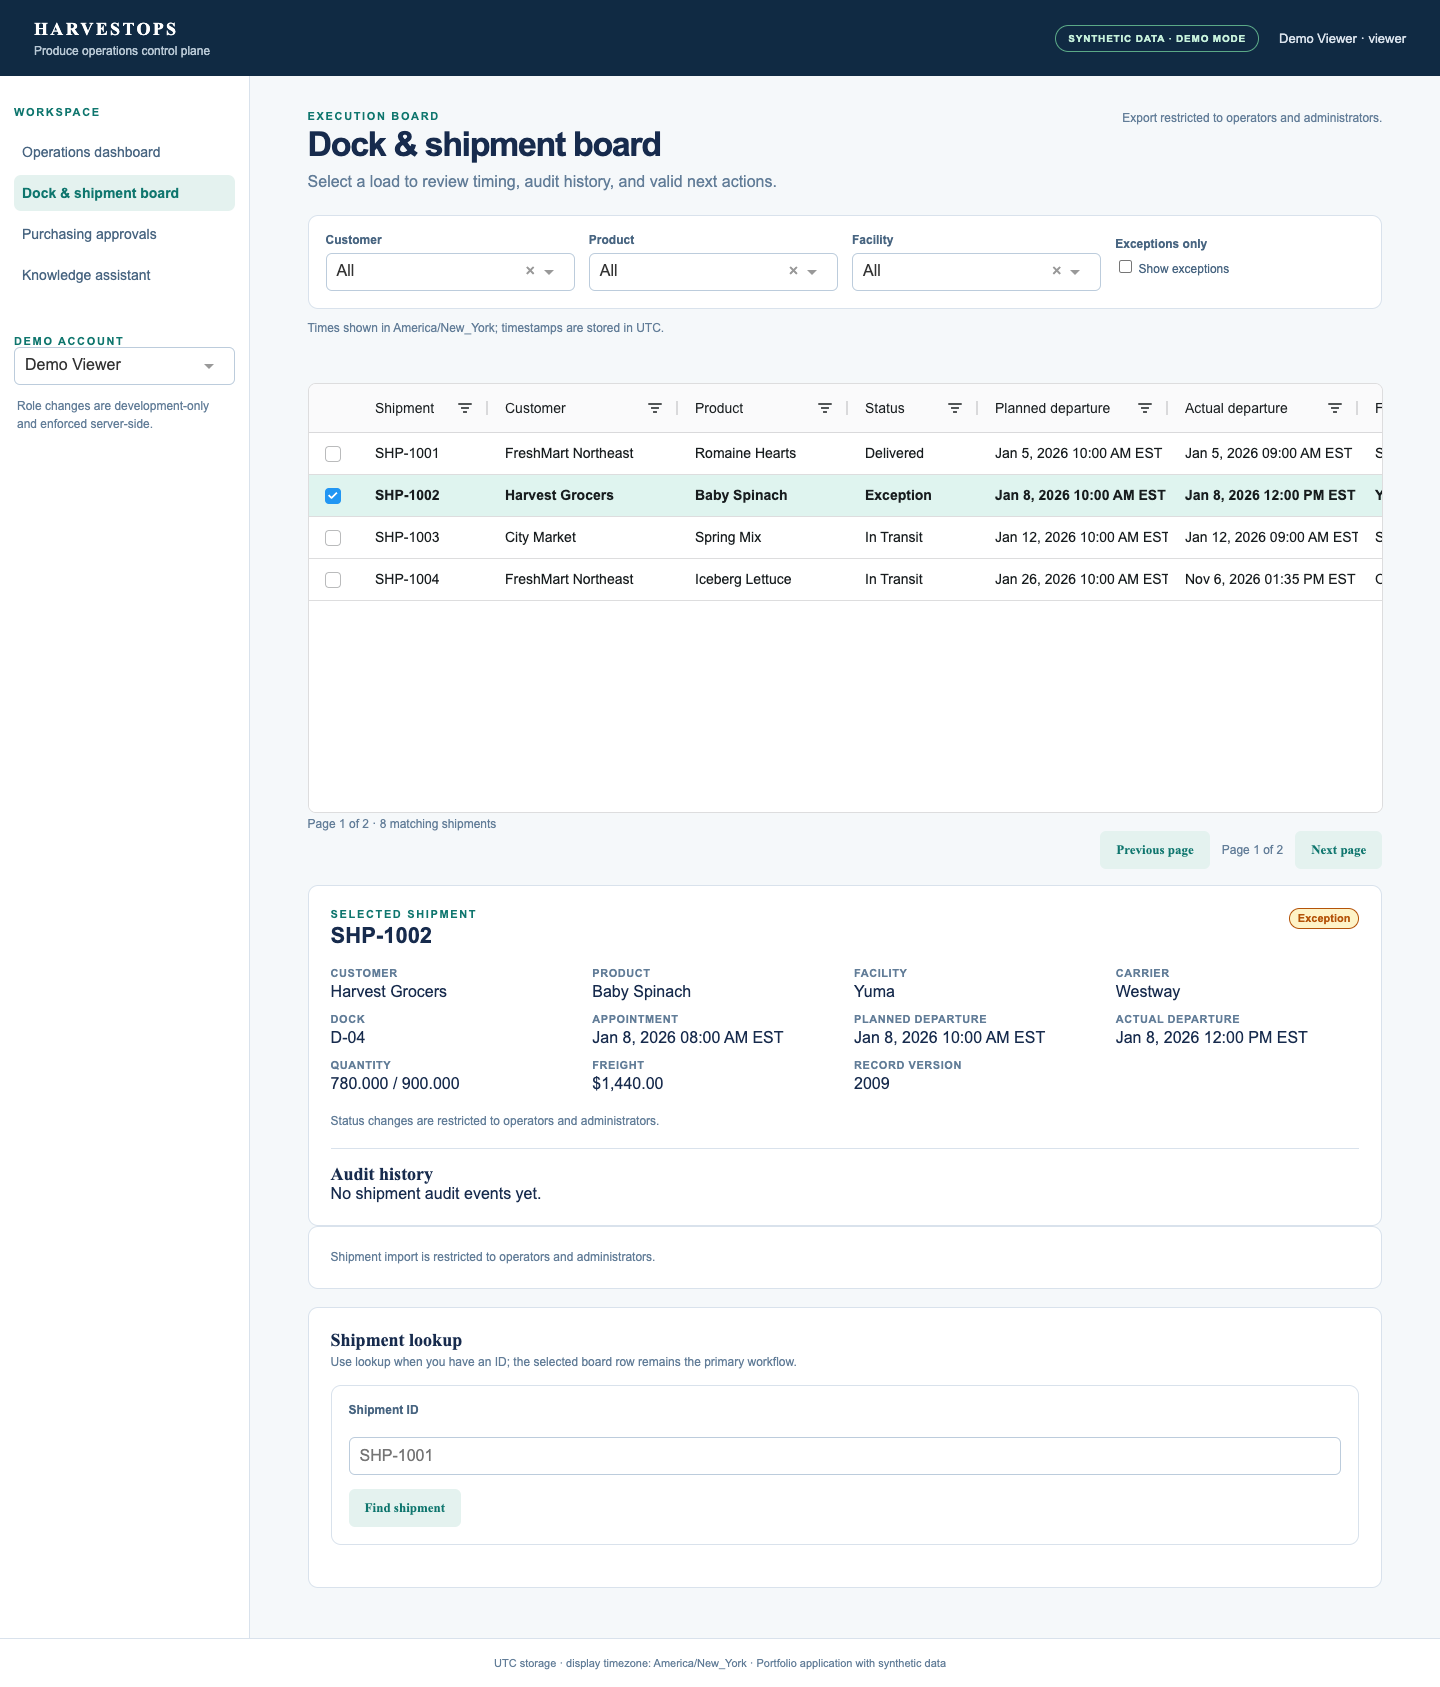
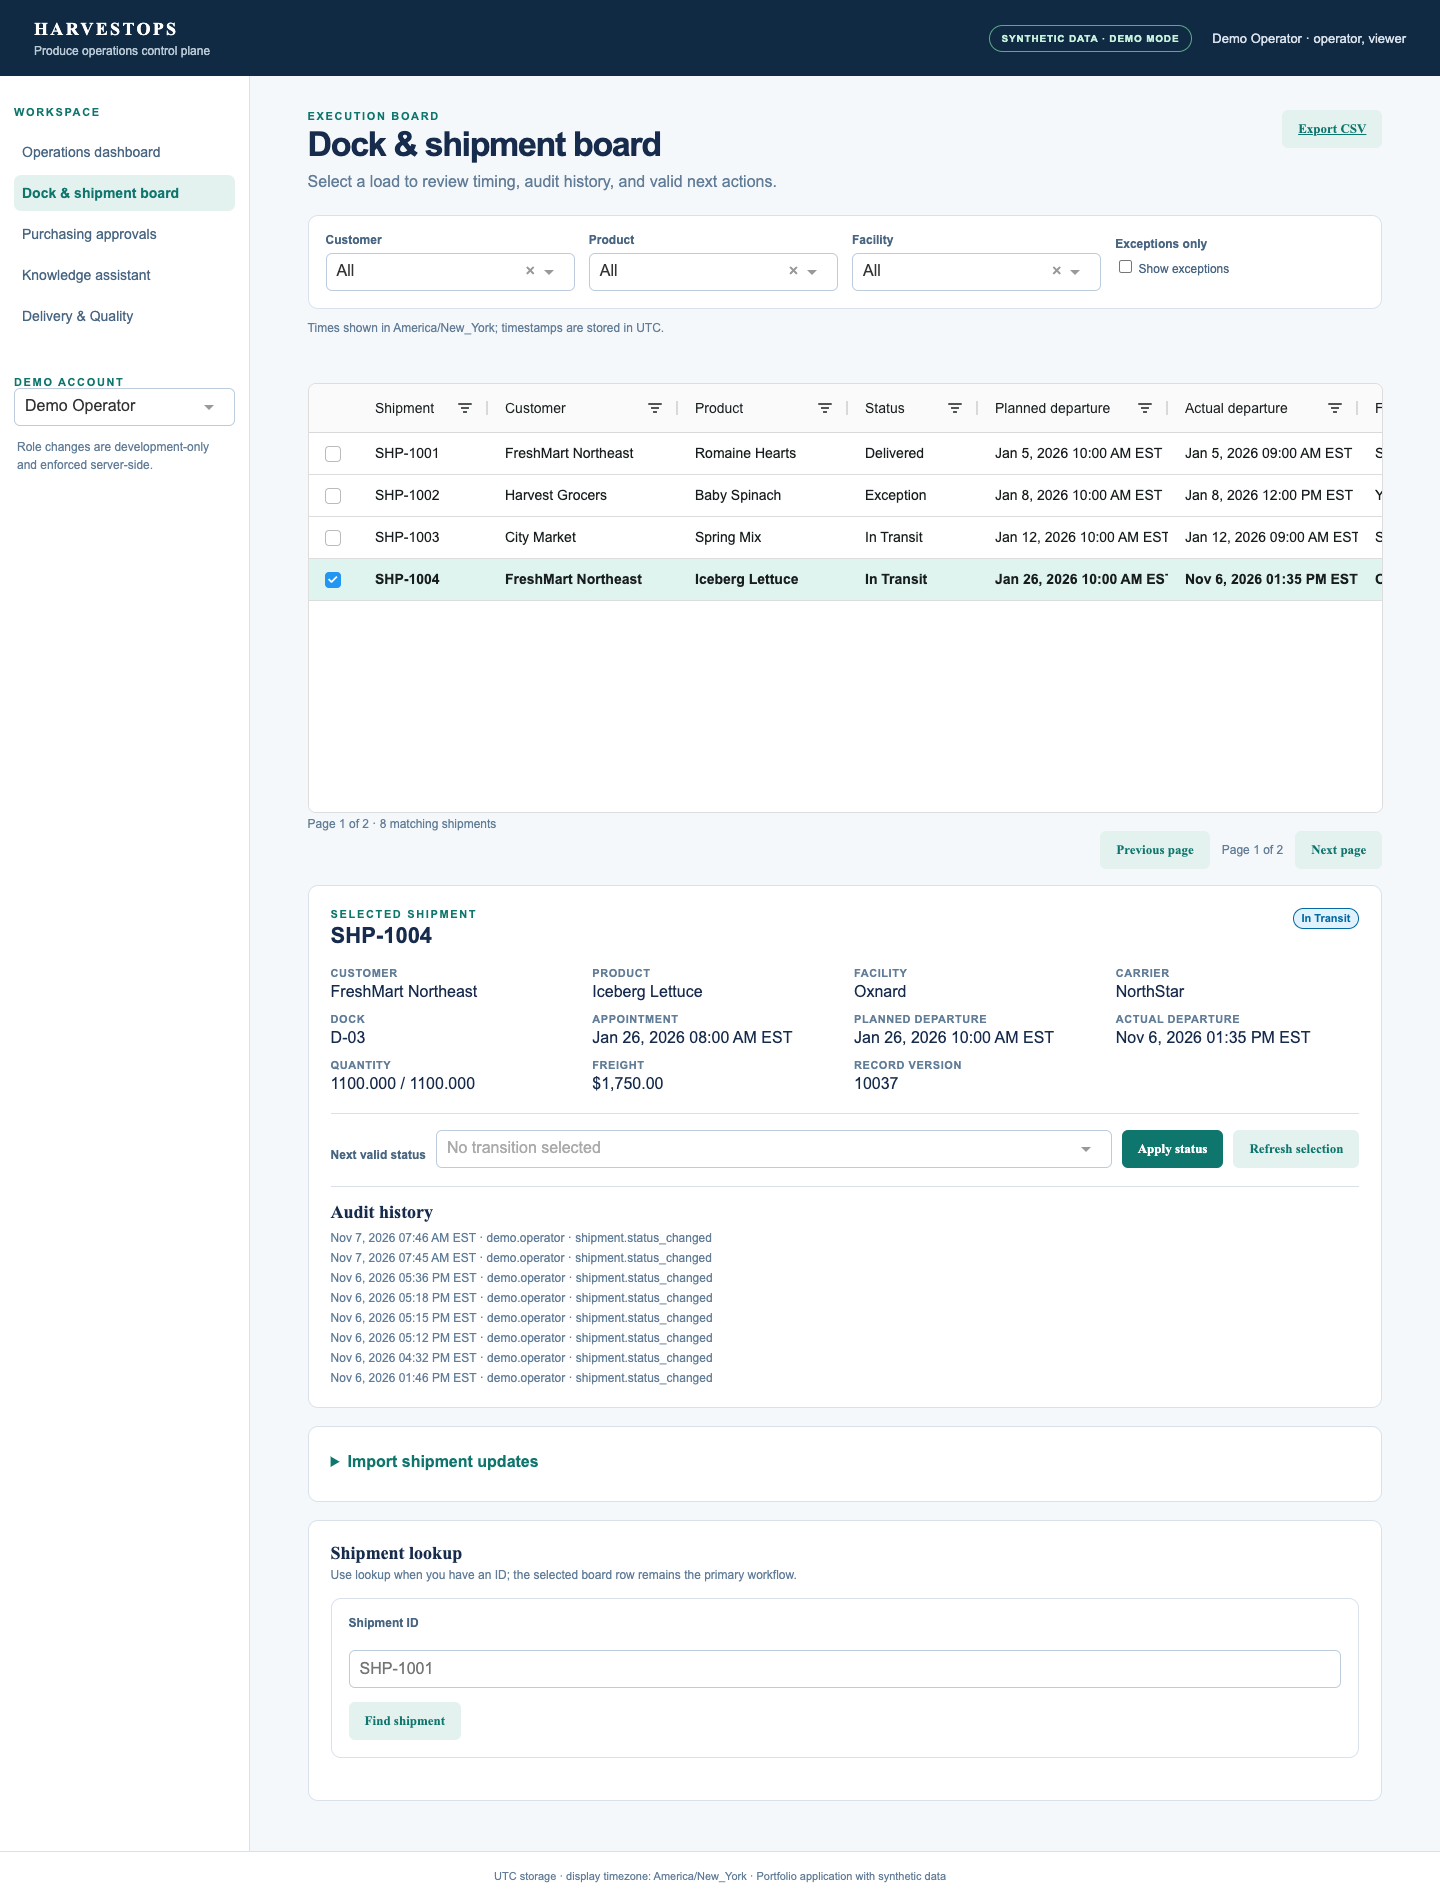
Record delivery evidence and final screenshots

diff --git a/scripts/refresh-evidence-snapshot.py b/scripts/refresh-evidence-snapshot.py
@@ -87,9 +87,9 @@ def main() -> int:
         except (OSError, json.JSONDecodeError):
             preserved = {}
 
-    ci_runs = preserved.get("ci_runs", [])
+    ci_runs = list(preserved.get("ci_runs", []))
     if args.ci_run_id and args.ci_run_url:
-        ci_runs.append(
+        ci_runs = [
             {
                 "id": args.ci_run_id,
                 "label": "GitHub Actions CI",
@@ -99,8 +99,9 @@ def main() -> int:
                 "url": args.ci_run_url,
                 "scope": "hosted-main",
                 "collected_at_utc": collected,
-            }
-        )
+            },
+            *[run for run in ci_runs if run.get("id") != args.ci_run_id],
+        ]
     snapshot = {
         "schema_version": 1,
         "snapshot_type": "sanitized-portfolio",

diff --git a/docs/validation-report.md b/docs/validation-report.md
@@ -2,7 +2,17 @@
 
 Date: 2026-11-07. Host: Apple Silicon M2, 8 GiB RAM, macOS. The verification environment is `.venv` with Python 3.13.14; the supported Python 3.12 environment remains available. Docker Desktop reports an ARM64 daemon, approximately 3.82 GiB available to its VM, and approximately 124 GiB free on `/System/Volumes/Data`.
 
-## Current authoritative status (focused review, final)
+## Current authoritative status (Delivery & Quality milestone)
+
+- The Delivery & Quality implementation is complete on commit `176a32f1c40f90278749cb91be4cb97b0c622fa3` on `main`. Hosted GitHub Actions run [42374845738](https://github.com/HarleyFischel/Harvestops/actions/runs/42374845738) passed for that exact commit: test, SQL integration, legacy build/audit, secret scan, multi-architecture container build, and image scan all completed successfully.
+- The local structured evidence refresh recorded `81` Python tests with `4` SQL-connection skips, `20` browser tests with no skips, and `4` SQL-backed integration tests against the persistent Mac SQL Server. The normal local command `./scripts/test.sh` passed `77` tests with `4` skips and `2` MSAL warnings; Ruff lint/format and `git diff --check` passed.
+- The page is available at `/?page=delivery`. It presents runtime build identity separately from the latest recorded default-branch CI, searchable curated requirements, structured quality evidence, an intentionally empty formal release history, support-document links, and explicit open verification gates. The committed snapshot works without a GitHub token; live refresh remains optional and server-side.
+- Public/demo viewers receive only the sanitized portfolio projection. Operator/admin detail APIs and allowlisted document routes retain server-side authorization; restricted evidence, logs, tokens, arbitrary paths, and private repository content are not published.
+- The isolated SQL-backed app passed browser verification on `127.0.0.1:8052`; it was then removed and replaced by the verified revision on `127.0.0.1:8050`. The existing SQL database and `harvestops-mac-sql-data` volume were preserved. Local and public `/healthz` and `/readyz` returned HTTP 200 after replacement, and a public browser smoke opened the Delivery & Quality page through `https://harvestops.vluna.store`.
+- Local ARM64 and AMD64 application image builds completed separately from the same source; the hosted build job verified both deployment architectures. No database migrations or seed resets were required for this milestone.
+- Live Entra tenant sign-in, Azure/OIDC/Container Apps, external Proxmox SQL, remote Claude/MCP, and production certificate-chain validation remain account- or environment-dependent and are explicitly unverified. No cloud resources were provisioned.
+
+## History: focused review checkpoint
 
 - The focused review is complete on commit `952c324b4201b27b6a08b951fd04d05baf493930` on `main`. Hosted GitHub Actions run [42335523476](https://github.com/HarleyFischel/Harvestops/actions/runs/42335523476) completed successfully for that exact commit; all required jobs passed, including secret scanning, tests, SQL integration, legacy build/audit, container build, and image scan. The intended remote remains the private HarvestOps repository: `https://github.com/HarleyFischel/Harvestops.git`.
 - Exception links now resolve the requested shipment to its server-calculated page, select it, show details/actions, survive reload and back/forward, and fail safely for missing records. Public read-only browser checks passed for first-page and later-page deep links.
@@ -13,7 +23,7 @@ Date: 2026-11-07. Host: Apple Silicon M2, 8 GiB RAM, macOS. The verification env
 - A copy-only backup `./backups/HarvestOps-20261107T030953Z.bak` restored to disposable `HarvestOps_restore_20261107T030953Z` with `8` shipments and migration version `9`. The original database and volume were not deleted.
 - Final application images built separately and ran as non-root `appuser`: `harvestops:focused-final-arm64` (`sha256:a08cdc82c6bdb9b00a8c88ab3ce4b165636eb6d14ec01218126d4a00cc006145`) and `harvestops:focused-final-amd64` (`sha256:e6998e601e22272fe3c3b2c0f2e9f0f4d4e61af1324ed432915e0343bd682b2d`). Both returned demo health/readiness/root HTTP 200 in disposable containers; the ARM64 image also passed the two-test shipment/purchasing workflow browser check in a one-worker demo container.
 - The final local SQL-backed browser run passed `15` focused tests (navigation, permissions, formatting/layout, smoke, and Entra simulation); the separate disposable demo workflow run passed `2` tests. The final SQL integration module passed `4` tests. MCP stdio and offline infrastructure verification passed, including Compose rendering and Bicep compilation.
-- Final screenshots are [operations overview](screenshots/operations-overview.png), [selected shipment](screenshots/selected-shipment.png), and [selected purchasing request](screenshots/selected-purchase.png).
+- Final screenshots are [operations overview](screenshots/operations-overview.png), [Delivery & Quality](screenshots/delivery-quality-overview.png), [selected shipment](screenshots/selected-shipment.png), and [selected purchasing request](screenshots/selected-purchasing-request.png).
 - Remaining account-dependent or environment-specific gates are live Entra tenant sign-in, Azure/OIDC/Container Apps, remote Claude/MCP, external Proxmox SQL, and production certificate-chain validation. No cloud resources were provisioned and no paid AI credential is required for core operation.
 
 ## M2 Mac SQL profile verification (2026-11-06)

diff --git a/docs/delivery-quality.md b/docs/delivery-quality.md
@@ -2,6 +2,8 @@
 
 HarvestOps includes a read-only Delivery & Quality page at `/?page=delivery`. It is a portfolio evidence view, not a project-management or deployment control plane. GitHub remains authoritative for commits, issues, pull requests, workflow runs, and artifacts.
 
+The current checkpoint records hosted run `42374845738` for source commit `176a32f1c40f90278749cb91be4cb97b0c622fa3`; all required jobs completed successfully. The running local SQL-backed app is built with that source revision. No formal release/deployment record is inferred from the commit or CI run.
+
 ## Evidence modes
 
 The default mode reads `evidence/snapshot.json`, a versioned and schema-validated sanitized snapshot. It works without credentials and labels its collection time, source commit, scope, and stale/error state. The page never treats the newest GitHub commit as the deployed revision: runtime identity comes from `HARVESTOPS_*` build metadata, while CI evidence is matched by commit when possible.
